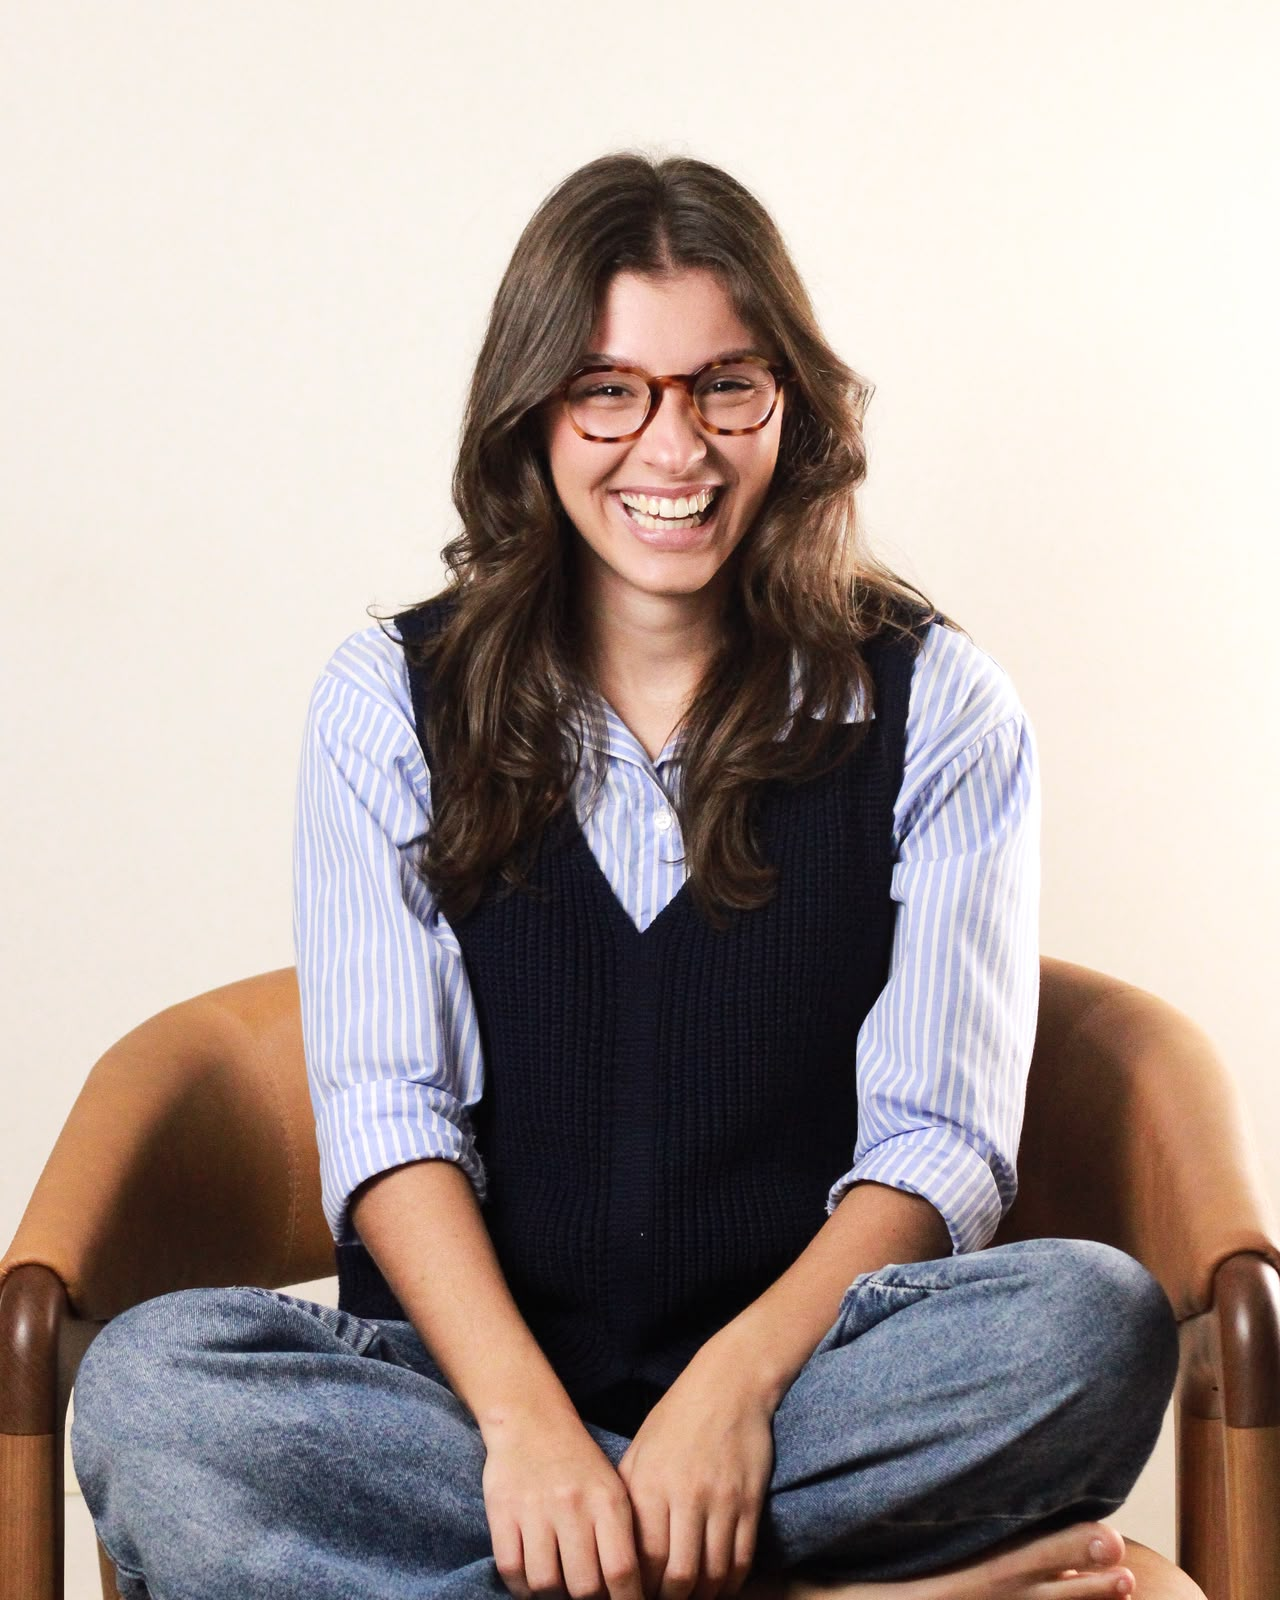
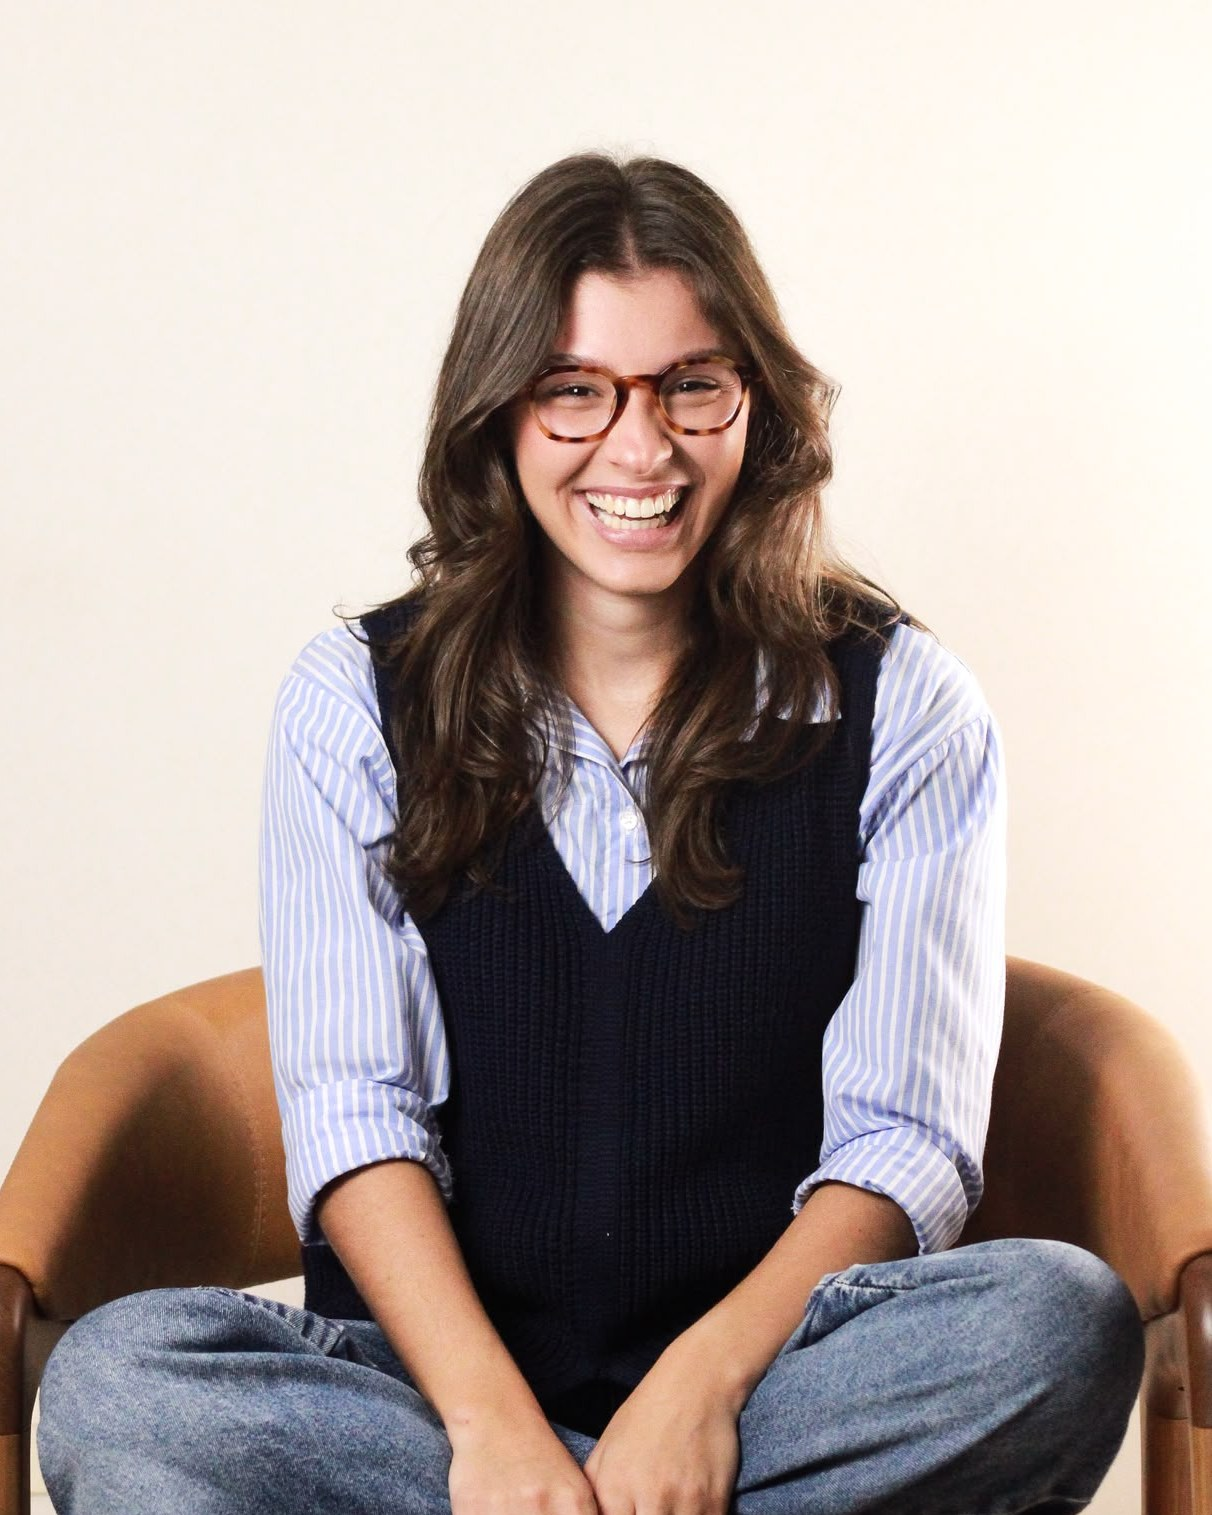
Site Clara: Sobre mim em texto e topicos, com foto reenquadrada
A secao virou duas partes, como a referencia que ele mandou: os dois
paragrafos novos dela em prosa e a formacao em faixas com icone, dentro da
mesma coluna da borda oliva. Os quatro paragrafos antigos sairam. O que
listava a formacao em prosa nao foi perdido, virou os dois primeiros
topicos, e manter os dois seria dizer a mesma coisa duas vezes.

Sem travessao entre titulo e detalhe, que o briefing proibe: o detalhe entra
em tom mais claro ao lado, e no celular desce para a linha de baixo, porque
correndo ao lado os dois quebram no meio e deixam de se distinguir. A unica
alteracao no texto dela foi um dois pontos depois de "nao aparece em
palavras", onde as duas oracoes vinham emendadas sem pontuacao.

A beca e a medalha de fita da primeira versao foram recusadas por parecerem
icone de banco, e eram: qualquer biblioteca entrega as duas iguais. No lugar,
livro aberto de pagina irregular para a formacao academica, e um labirinto
para o treinamento na Escala LABIRINTO, que e o nome da escala desenhado em
vez de um selo de curso concluido servindo para qualquer coisa. Os dois
foram testados renderizados a 22px, que e o tamanho real: desenho que fecha
nesse tamanho vira mancha, e foi o que descartou a espiral e as quatro
linhas de texto no livro.

A cliente pediu para tirar a ponta do pe que aparecia na foto. O corte e no
arquivo, nao no CSS: o pe entra em y=1525 de 1600, entao a foto foi cortada
em 1515 com a largura ajustada junto para manter 4:5 exato e o container nao
[…]

diff --git a/clientes/clara-biscarde/site/app/page.tsx b/clientes/clara-biscarde/site/app/page.tsx
@@ -8,6 +8,8 @@ import {
   focos,
   publicos,
   modalidades,
+  sobre,
+  formacao,
   caminho,
   duvidas,
   telefoneLegivel,
@@ -28,6 +30,8 @@ import {
   Estrela,
   Monitor,
   Local,
+  Livro,
+  Labirinto,
 } from "@/components/desenhos";
 import { cn } from "@/lib/utils";
 import {
@@ -176,35 +180,43 @@ export default function Home() {
                 </h2>
 
                 <div className="mt-6 space-y-5 leading-[1.7] text-tinta-media">
-                  <p>
-                    A Psicologia transformou a minha forma de enxergar a
-                    infância e a adolescência. Ela me ensinou a olhar para além
-                    do que aparece: para os sentimentos por trás dos
-                    comportamentos, para o que uma brincadeira comunica e para
-                    aquilo que ainda não encontrou palavras.
-                  </p>
-                  <p>
-                    Ao longo da minha trajetória, especialmente nas experiências
-                    com crianças e adolescentes no ambiente escolar, esse olhar
-                    ganhou ainda mais sentido. Passei a me interessar pelas
-                    diferentes formas de expressão, pelos vínculos e pelos
-                    desafios de cada etapa do crescer.
-                  </p>
-                  <p>
-                    No consultório, busco oferecer um espaço de acolhimento e
-                    segurança, respeitando a singularidade de cada criança e
-                    adolescente e ajudando-os a compreender suas emoções,
-                    relações e experiências. A orientação às famílias também faz
-                    parte desse processo, construindo caminhos possíveis para os
-                    desafios do cotidiano.
-                  </p>
-                  <p>
-                    Sou psicóloga formada pela Escola Bahiana de Medicina e
-                    Saúde Pública e pós-graduanda em Terapia
-                    Cognitivo-Comportamental pelo INTCC. Atuo com crianças,
-                    adolescentes e orientação de famílias.
-                  </p>
+                  {sobre.map((paragrafo) => (
+                    <p key={paragrafo.slice(0, 40)}>{paragrafo}</p>
+                  ))}
                 </div>
+
+                {/*
+                  A formação sai da prosa e vira faixa com ícone. São linhas
+                  largas, não o grid de cartão com ícone em quadradinho que o
+                  briefing proíbe, e o raio é o de campo, menor que o dos
+                  cartões de foco, para as duas listas não se confundirem.
+                */}
+                <RevealLista className="mt-9 space-y-3">
+                  {formacao.map((item) => {
+                    const Icone = item.desenho === "livro" ? Livro : Labirinto;
+                    return (
+                      <RevealItem
+                        key={item.titulo}
+                        className="flex items-center gap-4 rounded-campo border-l-2 border-coral bg-creme py-3.5 pl-4 pr-5"
+                      >
+                        <span className="flex h-10 w-10 shrink-0 items-center justify-center rounded-full bg-rose-claro text-coral-texto">
+                          <Icone className="h-[1.4rem] w-[1.4rem]" />
+                        </span>
+                        {/* No celular o detalhe desce para a linha de baixo:
+                            correndo ao lado do título, os dois quebram no meio
+                            e deixam de se distinguir. */}
+                        <p className="leading-[1.45]">
+                          <span className="font-semibold text-tinta">
+                            {item.titulo}
+                          </span>{" "}
+                          <span className="block text-mini text-tinta-media sm:inline">
+                            {item.detalhe}
+                          </span>
+                        </p>
+                      </RevealItem>
+                    );
+                  })}
+                </RevealLista>
               </div>
 
               <div className="col-span-12 md:col-span-5">

diff --git a/clientes/clara-biscarde/site/lib/clara.ts b/clientes/clara-biscarde/site/lib/clara.ts
@@ -116,6 +116,45 @@ export const faixaInfo: string[] = [
 ];
 
 /**
+ * Sobre mim. Texto da Clara, sem alteração, tirando os dois pontos depois de
+ * "não aparece em palavras": no original faltava a pontuação e as duas orações
+ * ficavam emendadas.
+ *
+ * A terceira frase da versão anterior, a que listava a formação em prosa,
+ * saiu daqui: virou a lista `formacao` logo abaixo.
+ */
+export const sobre = [
+  "A Psicologia me ensinou que, muitas vezes, o que uma criança ou adolescente sente não aparece em palavras: aparece no comportamento, na brincadeira, no silêncio, nas relações e até na forma como pede ajuda. Foi a partir desse olhar, construído especialmente nas minhas experiências com crianças e adolescentes no ambiente escolar, que encontrei sentido em acompanhar de perto as descobertas, os desafios e as transformações que fazem parte do crescer.",
+  "No consultório, meu trabalho é oferecer um espaço seguro, acolhedor e respeitoso, onde cada criança e adolescente possa ser compreendido em sua própria forma de existir e se expressar. Através da escuta, do brincar e de recursos adequados a cada fase do desenvolvimento, busco ajudá-los a reconhecer emoções, fortalecer vínculos e construir novas formas de lidar com suas experiências. E como ninguém cresce sozinho, a família também faz parte desse caminho, com orientações e apoio para tornar os desafios do cotidiano mais compreensíveis e possíveis de atravessar juntos.",
+];
+
+/**
+ * Formação, em faixas com ícone abaixo do texto de Sobre mim.
+ *
+ * `livro` é formação acadêmica, `labirinto` é o treinamento na escala de
+ * mesmo nome: a distinção é o que impede a lista de virar três linhas
+ * idênticas. O `detalhe` entra em tom mais claro ao lado
+ * do título, sem travessão no meio, que o briefing proíbe.
+ */
+export const formacao = [
+  {
+    desenho: "livro" as const,
+    titulo: "Formação EBMSP",
+    detalhe: "Escola Bahiana de Medicina e Saúde Pública",
+  },
+  {
+    desenho: "livro" as const,
+    titulo: "Pós-graduanda em TCC",
+    detalhe: "Terapia Cognitivo-Comportamental, no INTCC",
+  },
+  {
+    desenho: "labirinto" as const,
+    titulo: "Treinamento na Escala LABIRINTO",
+    detalhe: "Avaliação de sinais de TEA",
+  },
+];
+
+/**
  * Os quatro focos do acompanhamento. Texto da Clara, sem alteração.
  *
  * O layout segue a referência que ela mandou: quatro cartões com ícone,

diff --git a/clientes/clara-biscarde/site/components/desenhos.tsx b/clientes/clara-biscarde/site/components/desenhos.tsx
@@ -198,3 +198,62 @@ export function Trilha({ className }: Props) {
     </svg>
   );
 }
+
+/*
+ * Livro e Labirinto, os dois da lista de formação.
+ *
+ * Aqui o viewBox é 24, não o 64 dos desenhos da trilha. Eles rodam a 22px
+ * dentro da faixa, e nesse tamanho o traço de 2 sobre 64 vira borrão: o
+ * detalhe fecha e some. Menos linha e proporção maior é o que mantém a forma
+ * legível pequena.
+ *
+ * A beca de formatura e a medalha de fita que vieram antes foram recusadas
+ * por parecerem ícone de banco genérico, e eram mesmo: qualquer biblioteca
+ * entrega as duas iguais. Estes partem do que ela de fato tem escrito.
+ */
+const tracoMiudo = {
+  fill: "none",
+  strokeWidth: 1.5,
+  strokeLinecap: "round" as const,
+  strokeLinejoin: "round" as const,
+};
+
+/**
+ * Livro aberto, para a formação acadêmica.
+ *
+ * As páginas são arcos irregulares e a lombada não desce reta, que é o que
+ * separa isto de um livro de biblioteca de ícone. Duas linhas de texto, não
+ * quatro: a 22px, quatro linhas encostam umas nas outras e viram mancha.
+ */
+export function Livro({ className }: Props) {
+  return (
+    <svg viewBox="0 0 24 24" className={className} aria-hidden>
+      <g {...tracoMiudo} stroke="currentColor">
+        <path d="M12 7.3C9.6 5.4 6.3 4.9 3.5 5.8c-.4.1-.6.5-.6.9l.4 10.4c0 .5.5.8.9.7 2.6-.7 5.6-.2 7.8 1.3" />
+        <path d="M12 7.3c2.3-1.9 5.6-2.5 8.4-1.6.4.1.6.5.6.9l-.5 10.4c0 .5-.5.8-.9.6-2.6-.7-5.5-.1-7.6 1.4" />
+        <path d="M12.1 7.4c-.3 4-.2 8 0 12" />
+        <path d="M6 11.2c1.5-.4 3-.3 4.4 0" />
+        <path d="M17.9 11c-1.4-.3-2.9-.2-4.3.2" />
+      </g>
+    </svg>
+  );
+}
+
+/**
+ * Labirinto, para o treinamento na Escala LABIRINTO.
+ *
+ * É o nome da escala desenhado, não um selo de curso concluído: o caminho
+ * entra pelo topo e dá duas voltas até o centro.
+ */
+export function Labirinto({ className }: Props) {
+  return (
+    <svg viewBox="0 0 24 24" className={className} aria-hidden>
+      <g {...tracoMiudo} stroke="currentColor">
+        <path d="M10.3 3.4H4.5c-.7 0-1.1.5-1.1 1.2l.1 14.7c0 .7.5 1.2 1.1 1.2h14.9c.6 0 1.1-.6 1.1-1.2l-.1-14.7c0-.7-.5-1.2-1.2-1.2h-5.6" />
+        <path d="M13.8 6.9h2.9c.6 0 1.1.5 1.1 1.1v8c0 .6-.5 1.1-1.1 1.1H7.4c-.6 0-1.1-.5-1.1-1.1l.1-8c0-.6.5-1.1 1.1-1.1h3" />
+        <path d="M13.7 10.4h.9c.6 0 1 .4 1 1l-.1 2c0 .6-.4 1-1 1h-5" />
+        <path d="M12 3.5v6.9" />
+      </g>
+    </svg>
+  );
+}
